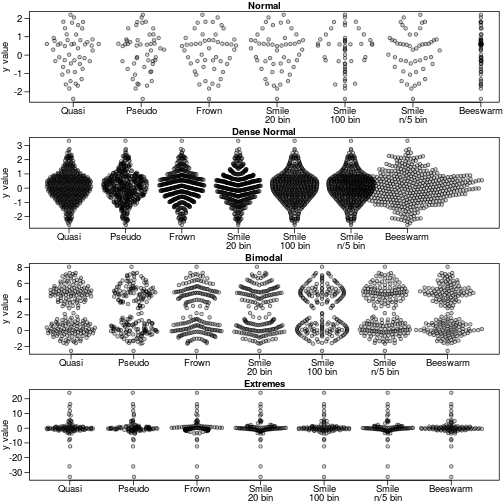
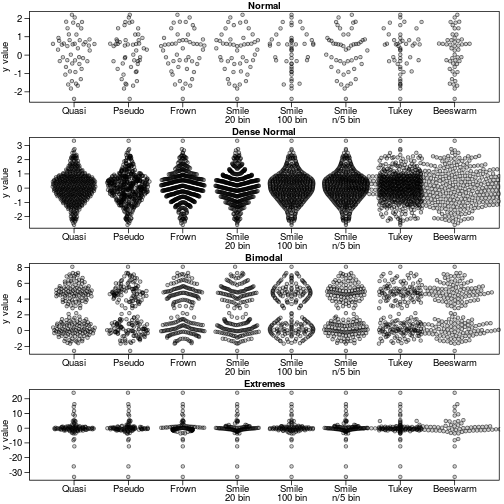
Add tukey to readme. Plot first to fix first beeswarm

diff --git a/README.md b/README.md
@@ -59,6 +59,9 @@ par(mfrow=c(4,1), mar=c(2.5,3.1, 1.2, 0.5),mgp=c(2.1,.75,0),
 	cex.axis=1.2,cex.lab=1.2,cex.main=1.2)
 sapply(names(dat),function(label) {
 	y<-dat[[label]]
+	#need to start plot first for beeswarm so xlim is magic number here
+	plot(1,1,type='n',ylab='y value',xlim=c(.5,8+.5),
+		ylim=range(y),xlab='', xaxt='n', ,las=1,main=label)
 	offsets <- list(
 		'Quasi'=offsetX(y),  # Default
 		'Pseudo'=offsetX(y, method='pseudorandom',nbins=100),
@@ -66,12 +69,12 @@ sapply(names(dat),function(label) {
 		'Smile\n20 bin'=offsetX(y, method='smiley',nbins=20),
 		'Smile\n100 bin'=offsetX(y, method='smiley',nbins=100),
 		'Smile\nn/5 bin'=offsetX(y, method='smiley',nbins=round(length(y)/5)),
+		'Tukey'=offsetX(y, method='tukey'),
 		'Beeswarm'=swarmx(rep(0,length(y)),y)$x
 	)
 	ids <- rep(1:length(offsets), each=length(y))
 
-	plot(unlist(offsets) + ids, rep(y, length(offsets)), ylab='y value',
-		xlab='', xaxt='n', pch=21,col='#00000099',bg='#00000033',las=1,main=label)
+	points(unlist(offsets) + ids, rep(y, length(offsets)),pch=21,col='#00000099',bg='#00000033')
 	par(lheight=.8)
 	axis(1, 1:length(offsets), names(offsets),padj=1,mgp=c(0,-.3,0),tcl=-.5)
 })
